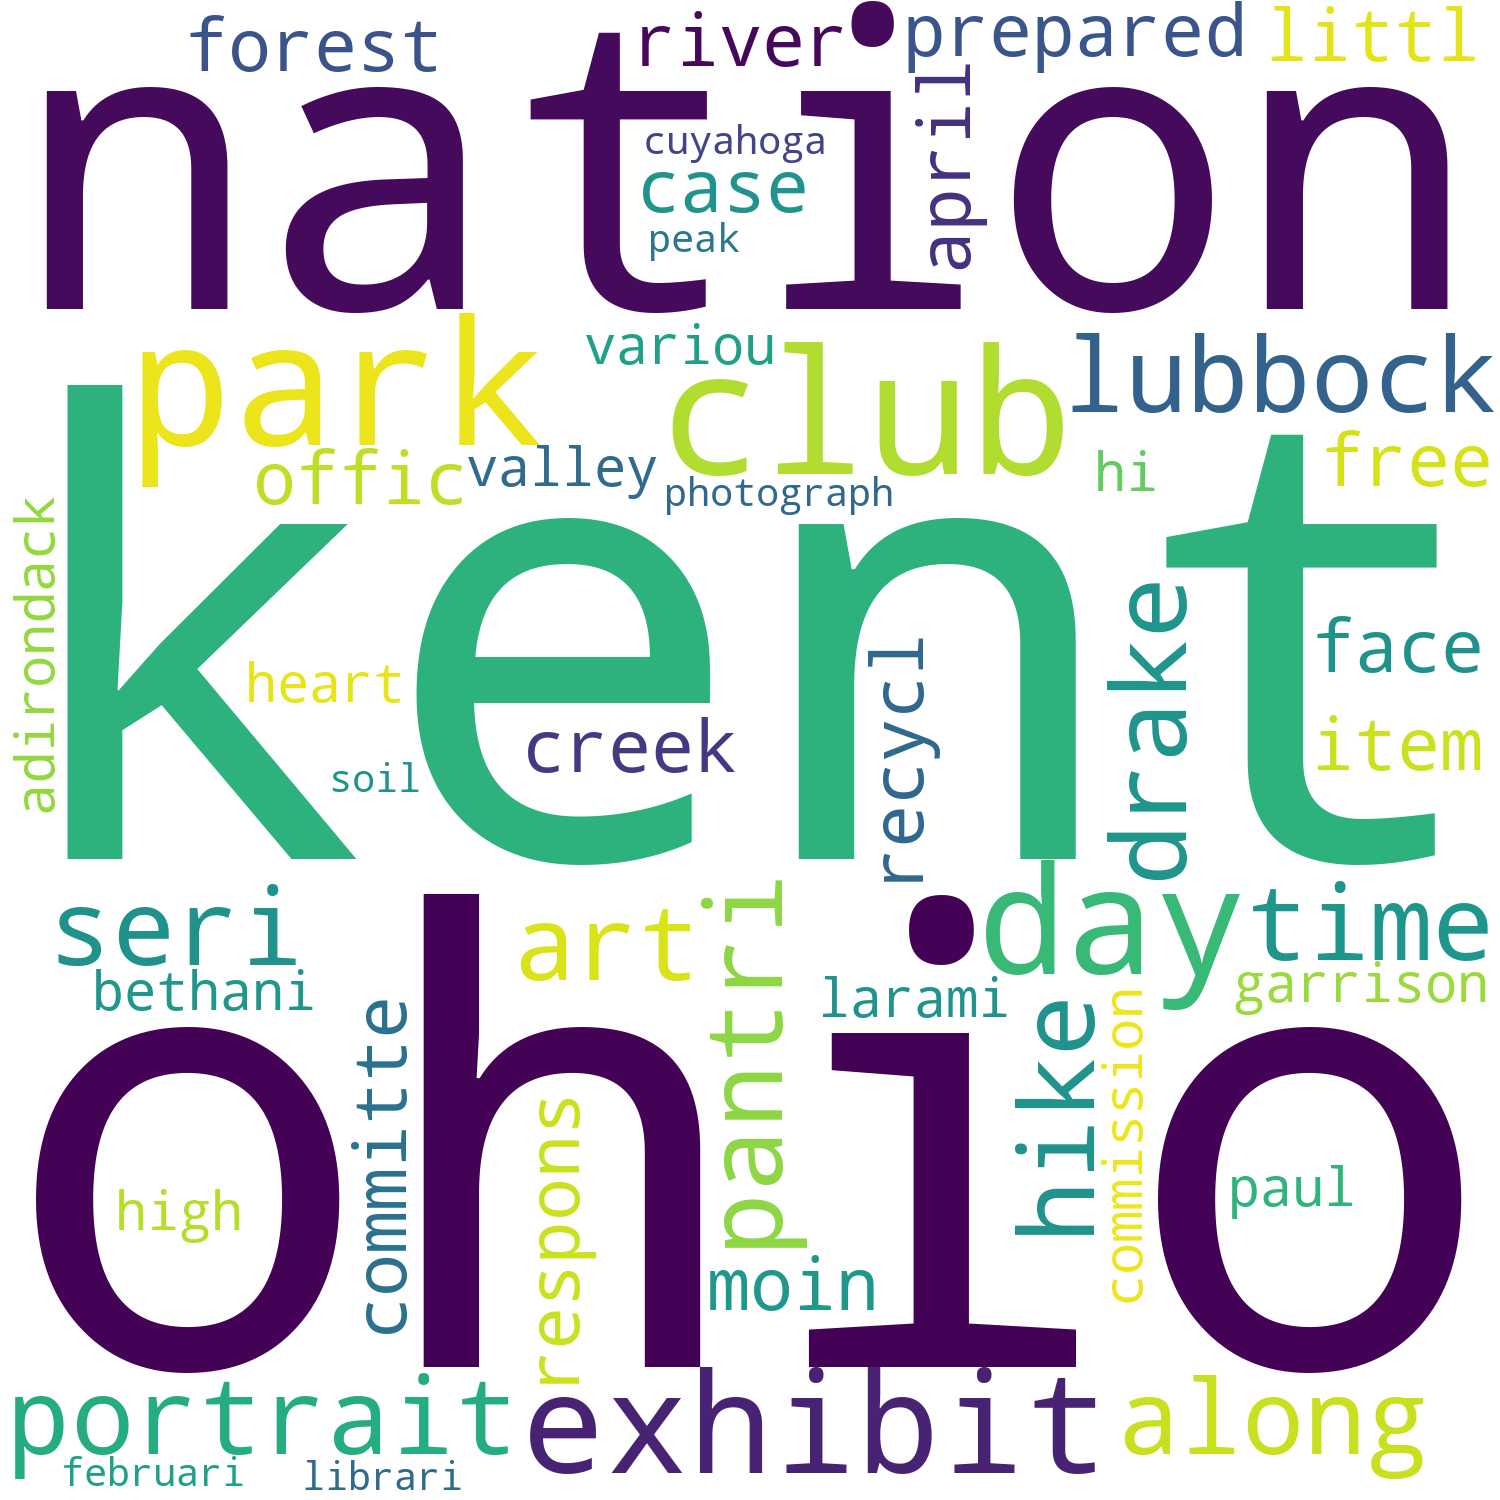
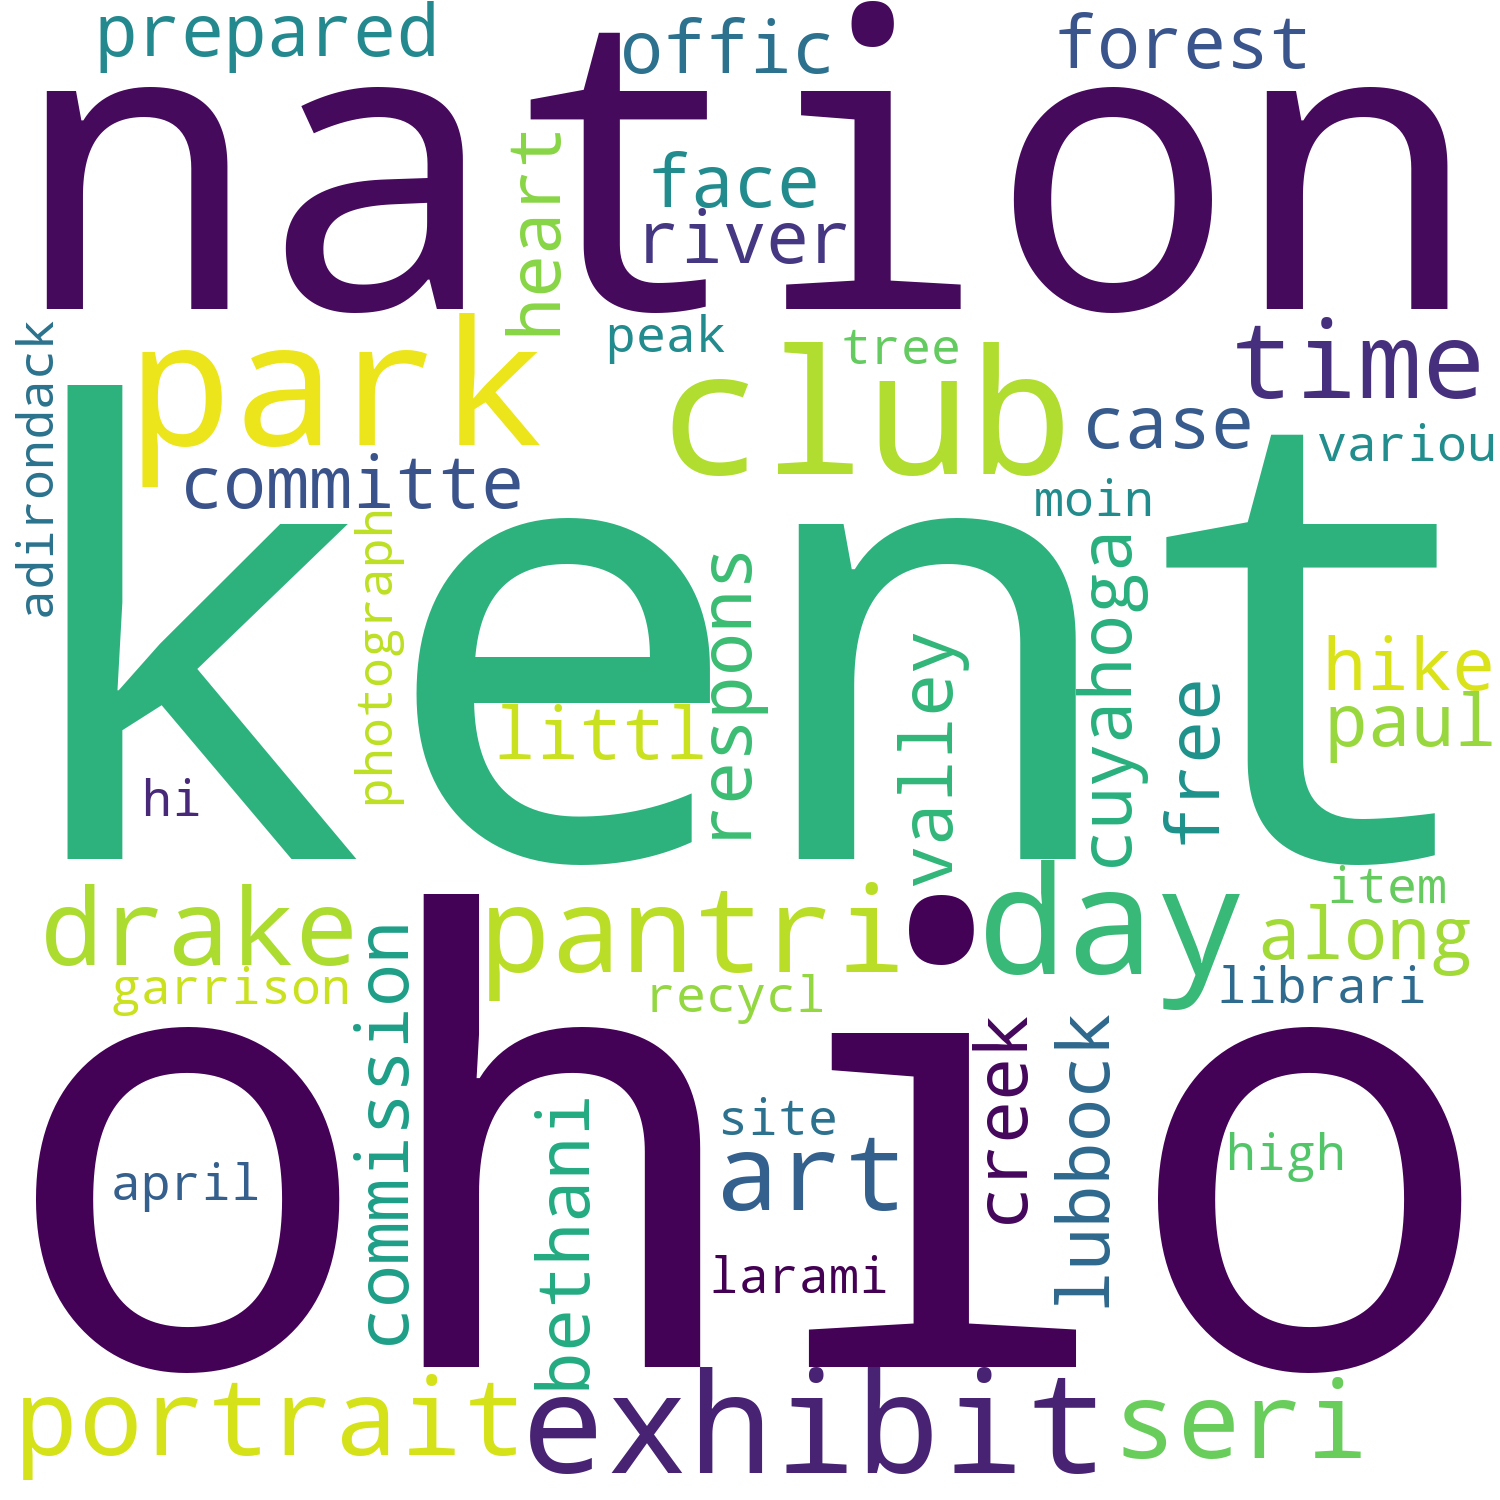
feat: add textcloud ui

diff --git a/app/templates/textcloud.html b/app/templates/textcloud.html
@@ -5,132 +5,25 @@
 
 {% block page_content %}
 <div class="container" style="margin:2% auto">
-    <div class="row">
+    <div class="row field_section">
+        <span class="category">Text Cloud</span>
+        <h1 class="field_title">Public Engagement</h1>
+    </div>
+    <ul class="row">
         {% for level in text_cloud.get_textclouds_level() %}
-            <div class="col-md-4">
-                <img class="img-responsive" src="../static/result/{{ level }}.png" alt="Card image cap">
-            </div>
+            <li class="col-6">
+                <div class="figure-card">
+                    <img class="img-responsive" src="../static/result/{{ level }}.png" alt="Card image cap">
+                    <div class="figure-card-title">{{ level }}</div>
+                    <div class="tokens_quantity_section">
+                        <scan class="var_tokens_quantity">word </scan>
+                        <scan class="tokens_quantity">50</scan>
+                    </div>
+                </div>
+            </li>
         {% endfor %}
         </div>
-    </div>
+    </ul>
 </div>
 
 {% endblock %}
-
-
-<!--<form action="/" method="get">
-  <input type="text" list="stars_fields" name="stars_fields"> 
-  <datalist id="stars_fields">
-    <option value="Public Engagement">
-    <option value="Campus as a Living Lab">
-    <option value="Moscow">
-    <option value="Paris">
-  </datalist>
-  <input type="submit" value="confirm">
-</form>
--->
-
-
-<!--
-<div class="ecl-col-s-12 ecl-col-m-3">
-    <div class="ecl-u-border-bottom ecl-u-border-width-2">
-        <h2 class="ecl-u-type-heading-2 ecl-u-mb-s">Filter by</h2>
-    </div>
-<form class="oe-list-pages-facets-form ecl-form" data-drupal-selector="oe-list-pages-facets-form" action="/scholarships/erasmus-mundus-catalogue_en" method="post" id="oe-list-pages-facets-form" accept-charset="UTF-8">
-    <div data-drupal-facet-id="oe_project_title" class="facet-empty facet-hidden js-form-wrapper form-wrapper ecl-form-group" data-drupal-selector="edit-0" id="edit-0">
-        <div class="js-form-item form-item js-form-type-textfield form-item-oe-project-title js-form-item-oe-project-title ecl-form-group ecl-form-group--text-input ecl-u-mv-m">
-            <label for="edit-oe-project-title--2" class="ecl-form-label">Keywords</label>
-            <input data-drupal-selector="edit-oe-project-title" type="text" id="edit-oe-project-title--2" name="oe_project_title" value="" size="60" maxlength="128" class="form-text ecl-text-input">
-        </div>
-    </div>
-<div class="js-form-item form-item js-form-type-select form-item-oe-project-locations-country js-form-item-oe-project-locations-country ecl-form-group ecl-form-group--select ecl-u-mv-m">
-    <label for="edit-oe-project-locations-country--2" class="ecl-form-label">Country</label>
-    <div class="ecl-select__container ecl-select__container--m ecl-select__container--hidden">
-        <select data-drupal-selector="edit-oe-project-locations-country" multiple="" name="oe_project_locations_country[]" id="edit-oe-project-locations-country--2" class="form-select ecl-select" data-ecl-auto-init="Select" data-ecl-select-multiple="true" data-ecl-select-default="Select" data-ecl-select-search="Search" data-ecl-select-all="Select all" data-ecl-auto-initialized="true">
-            <option value="FR">France</option>
-            <option value="ES">Spain</option>
-            <option value="IT">Italy</option>
-            <option value="DE">Germany</option>
-            <option value="BE">Belgium</option>
-            <option value="PT">Portugal</option>
-            <option value="PL">Poland</option>
-            <option value="SE">Sweden</option>
-            <option value="NL">Netherlands</option>
-            <option value="GB">United Kingdom</option>
-            <option value="FI">Finland</option>
-            <option value="AT">Austria</option>
-        </select>
-        <div class="ecl-select__icon">
-            <svg class="ecl-icon ecl-icon--s ecl-icon--rotate-180 ecl-select__icon-shape" focusable="false" aria-hidden="true"><use xlink:href="/themes/contrib/oe_theme/dist/ec/images/icons/sprites/icons.svg#corner-arrow"></use></svg>
-        </div>
-    </div>
-    <div class="ecl-select__multiple">
-        <div class="ecl-select__container ecl-select__container--m">
-            <input class="ecl-select ecl-select__multiple-toggle" type="text" placeholder="Select" readonly="true">
-            <div class="ecl-select__icon">
-                <svg viewBox="0 0 48 48" xmlns="http://www.w3.org/2000/svg" xmlns:xlink="http://www.w3.org/1999/xlink" focusable="false" aria-hidden="true" class="ecl-icon ecl-icon--s ecl-select__icon-shape ecl-icon--rotate-180">
-                    <defs><path id="id-7a" d="M40 38 24 20 8 38l-6-6L24 8l22 24z"></path>
-                    </defs><use xlink:href="#id-7a"></use>
-                </svg>
-            </div>
-        </div>
-        <div class="ecl-select__multiple-dropdown ecl-select__container ecl-select__container--m" style="display: none;">
-            <input class="ecl-text-input" type="search" placeholder="Search">
-            <div class="ecl-select__multiple-all ecl-checkbox" data-select-multiple-value="Select all">
-                <input class="ecl-checkbox__input" type="checkbox" id="select-multiple-all">
-                <label class="ecl-checkbox__label" for="select-multiple-all">
-                    <span class="ecl-checkbox__box">
-                        <svg viewBox="0 0 48 48" xmlns="http://www.w3.org/2000/svg" xmlns:xlink="http://www.w3.org/1999/xlink" focusable="false" aria-hidden="true" class="ecl-icon ecl-icon--s ecl-checkbox__icon">
-                            <defs><path id="id-3a" d="M36 12 20 28l-8-8-4 4 12 12 20-20z"></path></defs>
-                            <use xlink:href="#id-3a"></use>
-                        </svg>
-                    </span>Select all
-                </label>
-            </div>
-            <div class="ecl-select__multiple-options">
-                <div class="ecl-checkbox" data-select-multiple-value="France" data-visible="true">
-                    <input class="ecl-checkbox__input" type="checkbox" id="select-multiple-FR">
-                    <label class="ecl-checkbox__label" for="select-multiple-FR">
-                        <span class="ecl-checkbox__box">
-                            <svg viewBox="0 0 48 48" xmlns="http://www.w3.org/2000/svg" xmlns:xlink="http://www.w3.org/1999/xlink" focusable="false" aria-hidden="true" class="ecl-icon ecl-icon--s ecl-checkbox__icon">
-                                <defs><path id="id-3a" d="M36 12 20 28l-8-8-4 4 12 12 20-20z"></path></defs>
-                                <use xlink:href="#id-3a"></use>
-                            </svg>
-                        </span>France
-                    </label>
-                </div>
-                <div class="ecl-checkbox" data-select-multiple-value="Spain" data-visible="true">
-                    <input class="ecl-checkbox__input" type="checkbox" id="select-multiple-ES">
-                    <label class="ecl-checkbox__label" for="select-multiple-ES">
-                        <span class="ecl-checkbox__box">
-                            <svg viewBox="0 0 48 48" xmlns="http://www.w3.org/2000/svg" xmlns:xlink="http://www.w3.org/1999/xlink" focusable="false" aria-hidden="true" class="ecl-icon ecl-icon--s ecl-checkbox__icon">
-                                <defs><path id="id-3a" d="M36 12 20 28l-8-8-4 4 12 12 20-20z"></path></defs>
-                                <use xlink:href="#id-3a"></use>
-                            </svg>
-                        </span>Netherlands
-                    </label>
-                </div>
-                <div class="ecl-checkbox" data-select-multiple-value="Ukraine" data-visible="true">
-                    <input class="ecl-checkbox__input" type="checkbox" id="select-multiple-UA">
-                    <label class="ecl-checkbox__label" for="select-multiple-UA">
-                        <span class="ecl-checkbox__box">
-                            <svg viewBox="0 0 48 48" xmlns="http://www.w3.org/2000/svg" xmlns:xlink="http://www.w3.org/1999/xlink" focusable="false" aria-hidden="true" class="ecl-icon ecl-icon--s ecl-checkbox__icon">
-                                <defs><path id="id-3a" d="M36 12 20 28l-8-8-4 4 12 12 20-20z"></path></defs>
-                                <use xlink:href="#id-3a"></use>
-                            </svg>
-                        </span>Ukraine
-                    </label>
-                </div>
-            </div>
-        </div>
-    </div>
-</div>
-<input autocomplete="off" data-drupal-selector="form-npf8msszfcstprictivvhjgfcf-edfqiogcydpgo-ts" type="hidden" name="form_build_id" value="form-nPf8MsSZfCStpRIcTIvvHjGfcf-EdFQiogcYDpGO-Ts">
-<input data-drupal-selector="edit-oe-list-pages-facets-form" type="hidden" name="form_id" value="oe_list_pages_facets_form">
-<div data-drupal-selector="edit-actions" class="form-actions js-form-wrapper form-wrapper ecl-form-group" id="edit-actions">            
-<button class="ecl-button ecl-button--primary" type="submit" data-drupal-selector="edit-submit" id="edit-submit" name="op" value="Search">Search</button>            
-<button class="ecl-button ecl-button--secondary" type="submit" data-drupal-selector="edit-reset" id="edit-reset" name="op" value="Clear filters">Clear filters</button></div>
-</form>
-
-          </div>
-        -->

diff --git a/app/templates/index.html b/app/templates/index.html
@@ -18,7 +18,7 @@
             </p>
         </div>
         <div class="col-md-4">
-            <img class="img-responsive" src="{{url_for('static', filename='result/text_cloud.png')}}" alt="Card image cap">
+            <img class="img-responsive" src="{{url_for('static', filename='result/result.png')}}" alt="Card image cap">
         </div>
         <div class="col-md-1">
         </div>
@@ -43,7 +43,7 @@
             </p>
         </div>
         <div class="col-md-4">
-            <img class="img-responsive" src="{{url_for('static', filename='result/text_cloud.png')}}" alt="Card image cap">
+            <img class="img-responsive" src="{{url_for('static', filename='result/result.png')}}" alt="Card image cap">
         </div>
         <div class="col-md-1">
         </div>
@@ -54,7 +54,7 @@
     <h1>Gallery</h1>
     <div class="card-group">
         <div class="card col-md-4">
-            <img class="card-img-top img-responsive img-thumbnail" src="{{url_for('static', filename='result/text_cloud.png')}}" alt="Card image cap">
+            <img class="card-img-top img-responsive img-thumbnail" src="{{url_for('static', filename='result/result.png')}}" alt="Card image cap">
             <div class="card-body">
             <h5 class="card-title">Card title</h5>
             <p class="card-text">This is a wider card with supporting text below as a natural lead-in to additional content. This content is a little bit longer.</p>
@@ -63,7 +63,7 @@
             </div>
         </div>
         <div class="card col-md-4">
-            <img class="card-img-top img-responsive img-thumbnail" src="{{url_for('static', filename='result/text_cloud.png')}}" alt="Card image cap">
+            <img class="card-img-top img-responsive img-thumbnail" src="{{url_for('static', filename='result/result.png')}}" alt="Card image cap">
             <div class="card-body">
             <h5 class="card-title">Card title</h5>
             <p class="card-text">This card has supporting text below as a natural lead-in to additional content.</p>
@@ -72,7 +72,7 @@
             </div>
         </div>
         <div class="card col-md-4">
-            <img class="card-img-top img-responsive img-thumbnail" src="{{url_for('static', filename='result/text_cloud.png')}}" alt="Card image cap">
+            <img class="card-img-top img-responsive img-thumbnail" src="{{url_for('static', filename='result/result.png')}}" alt="Card image cap">
             <div class="card-body">
             <h5 class="card-title">Card title</h5>
             <p class="card-text">This is a wider card with supporting text below as a natural lead-in to additional content. This card has even longer content than the first to show that equal height action.</p>

diff --git a/app/static/css/self.css b/app/static/css/self.css
@@ -1,0 +1,36 @@
+.category {
+    font-size: 2rem;
+    color : var(--bs-gray-500);
+}
+.field_section {
+    padding-bottom: 1rem;
+    border-bottom: 1px solid #E5E9EF;
+    margin-bottom: 5rem;
+}
+.field_title {
+    font-size: 4rem;
+    color: var(--bs-primary);
+}
+
+.figure-card {
+    padding: 4rem;
+    margin: 1rem 1rem 1.5rem 1rem;
+    box-shadow: rgba(50, 50, 93, 0.25) 0px 2px 5px -1px, rgba(0, 0, 0, 0.3) 0px 1px 3px -1px;
+}
+
+.figure-card-title {
+    font-size: 3rem;
+    color : var(--bs-primary);
+    padding-top: 2rem;
+}
+
+.tokens_quantity_section{
+    font-size: 1.2rem;
+}
+.var_tokens_quantity {
+    font-weight:bolder;
+}
+
+ul.row {
+    list-style: none
+}

diff --git a/app/templates/base.html b/app/templates/base.html
@@ -7,6 +7,7 @@
 <link rel="shortcut icon" href="{{ url_for('static', filename='favicon.ico') }}" type="image/x-icon">
 <link rel="icon" href="{{ url_for('static', filename='favicon.ico') }}" type="image/x-icon">
 <link href="{{ url_for('static', filename='css/bootstrap.min.css') }}" rel="stylesheet" >
+<link href="{{ url_for('static', filename='css/self.css') }}" rel="stylesheet" >
 {% endblock %}
 
 {% block navbar %}

diff --git a/app/main/views.py b/app/main/views.py
@@ -31,7 +31,16 @@ def text_cloud(field):
     response = requests.get(f"https://stars-api-romantic-tm.herokuapp.com/v1/textcloud/{field}")
     #call api
     #render textcloud based on response
-    new_text_cloud = tc.AddTextCloud(response.json())
-    new_text_cloud.create_textcloud()
+    #new_text_cloud = tc.AddTextCloud(response.json())
+    #new_text_cloud.create_textcloud()
+    class FakeTextCloud:
+        def get_textclouds_level(self):
+            levels = [
+                "Platinum", "Bronze"
+            ]
+            return levels
+    new_text_cloud = FakeTextCloud()
+
     return render_template('textcloud.html', text_cloud = new_text_cloud)
+    #return render_template('textcloud.html', text_cloud = new_text_cloud)
 
